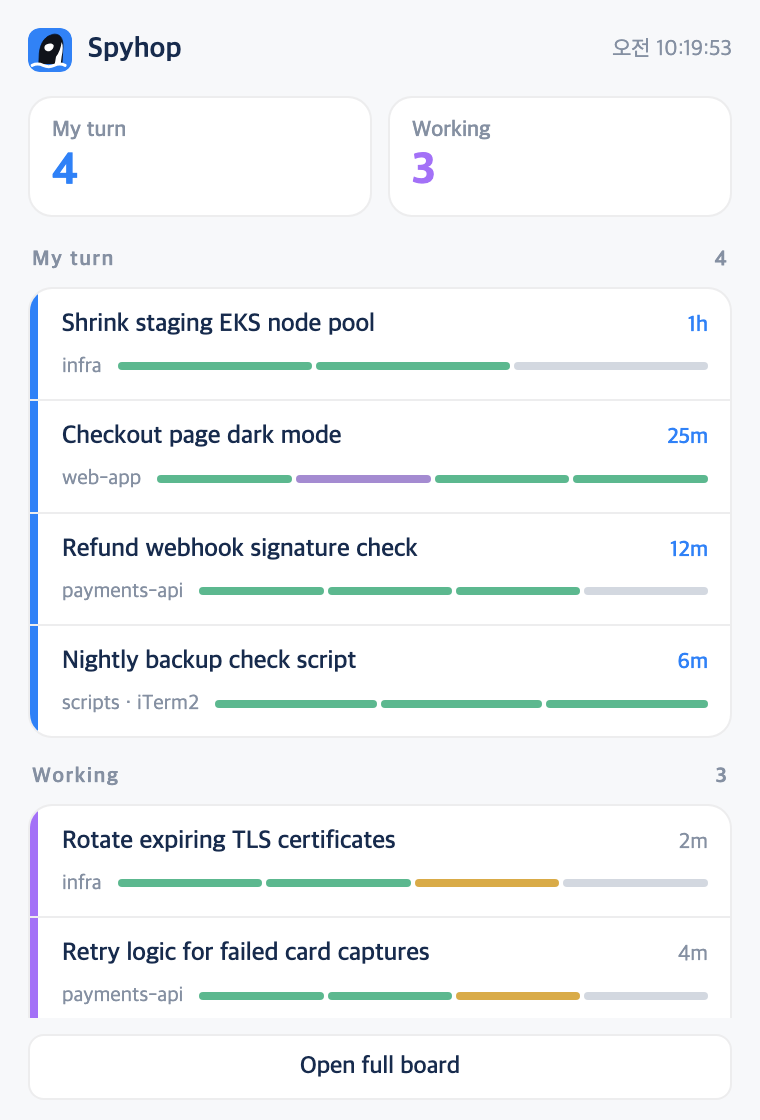
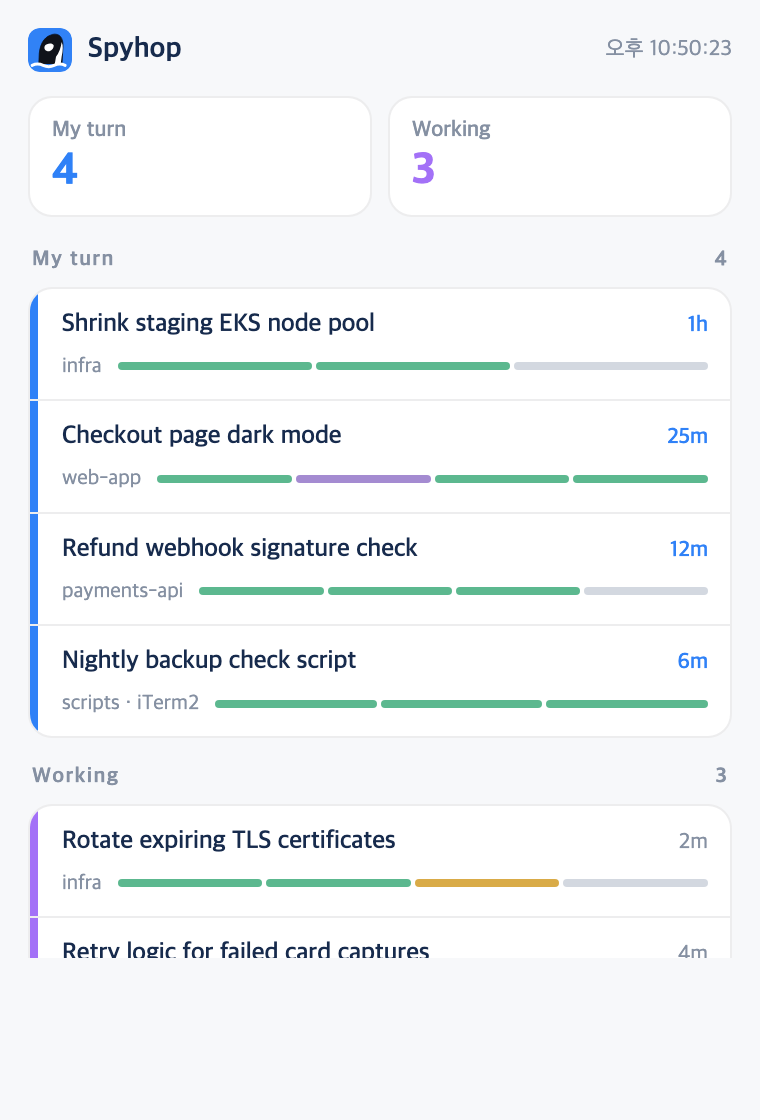
docs: refresh promo screenshots for the 2.x app UI
og.png and move.gif still showed the 1.x browser board (wave header,
"12m waiting"), so every link preview and demo looked unlike the app
people install. Both are regenerated from the current board, and the
pieces that produce them are now scripts instead of one-off exports.

- og_image.py: builds docs/og.png (1200x630) from the latest board
  shot. Sizes the card from the board's own aspect ratio so the last
  row of cards is never cut off.
- compare_groups.py: builds ai-groups-compare.png, folder grouping and
  AI-topic grouping stacked with captions. On its own ai-groups.png
  looks the same as board.png, so the regrouping was invisible.
- frames.py: split into shoot/render/render_gif and guarded with a
  __main__ check. render_gif writes a GIF with a shared palette (no
  ffmpeg needed, and ~3x smaller than per-frame palettes).
- demo_screens.py: find Chromium-family browsers instead of hardcoding
  Chrome, and trim the empty space under the board after shooting so
  taller columns stop getting clipped.

diff --git a/site/frames.py b/site/frames.py
@@ -53,8 +53,10 @@ M.forEach(function(m){
 """
 
 
-def render(name, w, h, scale, n, out):
+def shoot(w, h, scale, n):
+    """장면을 n 장으로 찍어 프레임 png 경로들을 돌려준다."""
     tmp = tempfile.mkdtemp(prefix='spyhop-frames-')
+    paths = []
     for i in range(n):
         page = os.path.join(tmp, 'f.html')
         s = base.replace('</head>', '<style>%s</style></head>' % CSS)
@@ -66,9 +68,16 @@ def render(name, w, h, scale, n, out):
             open(fr, 'w').write('<html><body style="margin:0"><iframe src="%s" style="width:%dpx;height:%dpx;border:0;display:block">'
                                 '</iframe></body></html>' % (url, w, h))
             url = 'file://' + fr
+        out = os.path.join(tmp, 'f%03d.png' % i)
         subprocess.run([D.CHROME, '--headless=new', '--disable-gpu', '--hide-scrollbars', '--window-size=%d,%d' % (w, h),
                         '--force-device-scale-factor=%s' % scale, '--virtual-time-budget=800',
-                        '--screenshot=' + os.path.join(tmp, 'f%03d.png' % i), url], capture_output=True)
+                        '--screenshot=' + out, url], capture_output=True)
+        paths.append(out)
+    return tmp, paths
+
+
+def render(name, w, h, scale, n, out):
+    tmp, paths = shoot(w, h, scale, n)
     subprocess.run(['ffmpeg', '-y', '-loglevel', 'error', '-framerate', '15', '-i', os.path.join(tmp, 'f%03d.png'),
                     '-c:v', 'libx264', '-pix_fmt', 'yuv420p', '-crf', '30', '-preset', 'slow', '-movflags', '+faststart',
                     '-vf', 'scale=trunc(iw/2)*2:trunc(ih/2)*2', os.path.join(HERE, 'assets', out)], check=True)
@@ -76,6 +85,39 @@ def render(name, w, h, scale, n, out):
     print('wrote', out)
 
 
-N = 90  # 6초 · 15fps
-render('desktop', 1280, 560, 1, N, 'move.mp4')
-render('phone', 600, 812, 1.2, N, 'm-move.mp4')
+def render_gif(w, h, scale, n, out, width=960, fps=15, colors=128):
+    """ffmpeg 없이 GIF 로 만든다. 디스코드·이슈 본문처럼 mp4 를 못 붙이는 곳에 쓴다.
+
+    프레임마다 팔레트를 따로 만들면 Pillow 가 프레임 간 차이를 못 줄여 파일이 몇 배로 커진다.
+    전체 프레임을 한 장으로 이어 붙여 공용 팔레트를 만든 뒤 그 팔레트로 양자화한다.
+    """
+    from PIL import Image
+    tmp, paths = shoot(w, h, scale, n)
+    raw = []
+    for p in paths:
+        im = Image.open(p).convert('RGB')
+        if im.width != width:
+            im = im.resize((width, round(im.height * width / im.width)), Image.LANCZOS)
+        raw.append(im)
+    step = max(1, len(raw) // 12)                      # 팔레트 표본: 프레임 12장 정도면 충분
+    sample = raw[::step]
+    strip = Image.new('RGB', (raw[0].width, raw[0].height * len(sample)))
+    for i, im in enumerate(sample):
+        strip.paste(im, (0, i * raw[0].height))
+    pal = strip.quantize(colors=colors, method=Image.MEDIANCUT)
+    frames = [im.quantize(palette=pal, dither=Image.NONE) for im in raw]
+    frames[0].save(out, save_all=True, append_images=frames[1:],
+                   duration=round(1000 / fps), loop=0, optimize=True)
+    shutil.rmtree(tmp, ignore_errors=True)
+    print('wrote %s (%d프레임 · %.1f초 · %dKB)' % (out, len(frames), len(frames) / fps, os.path.getsize(out) // 1024))
+
+
+if __name__ == '__main__':
+    import sys
+    N = 90  # 6초 · 15fps
+    if '--gif' in sys.argv:
+        # 홍보용 GIF: docs/screenshots/move.gif
+        render_gif(1280, 560, 1, 60, os.path.join(HERE, '..', 'docs', 'screenshots', 'move.gif'), width=960, fps=15)
+    else:
+        render('desktop', 1280, 560, 1, N, 'move.mp4')
+        render('phone', 600, 812, 1.2, N, 'm-move.mp4')

diff --git a/macos/board/tools/og_image.py b/macos/board/tools/og_image.py
@@ -1,0 +1,86 @@
+#!/usr/bin/env python3
+"""링크 미리보기(og:image)용 docs/og.png 를 만든다. 보드 그림은 demo_screens 가 찍은 최신 화면을 쓴다.
+
+  python3 tools/demo_screens.py && python3 tools/og_image.py
+
+og.png 는 디스코드·X·슬랙에 링크를 붙일 때 가장 먼저 보이는 한 장이라, 보드 화면이 바뀌면 같이 다시 만든다.
+헤드리스 크롬 레이아웃에 맡기면 보드 아래쪽이 잘려서, 치수를 직접 계산해 Pillow 로 합성한다.
+"""
+import math
+import os
+
+from PIL import Image, ImageDraw, ImageFilter, ImageFont
+
+import demo_screens as D
+
+DOCS = os.path.join(D.ROOT, '..', '..', 'docs')
+BOARD = os.path.join(DOCS, 'screenshots', 'board.png')
+OUT = os.path.join(DOCS, 'og.png')
+
+W, H = 1200, 630
+SS = 2                      # 2배로 그린 뒤 줄여서 글자를 또렷하게
+BG = (246, 247, 249)
+INK = (25, 31, 40)
+SUB = (78, 89, 104)
+TITLE = 'Spyhop'
+TAGLINE = 'Every AI coding session on one board, each with its own progress'
+
+FONT = '/System/Library/Fonts/SFNS.ttf'
+FALLBACK = '/System/Library/Fonts/Helvetica.ttc'
+TOP, GAP, SIDE, BOTTOM, RADIUS = 46, 26, 60, 26, 14
+
+
+def font(size):
+    try:
+        return ImageFont.truetype(FONT, size * SS)
+    except OSError:
+        return ImageFont.truetype(FALLBACK, size * SS)
+
+
+def centered(draw, y, text, f, fill):
+    x0, y0, x1, y1 = draw.textbbox((0, 0), text, font=f)
+    draw.text(((W * SS - (x1 - x0)) / 2 - x0, y), text, font=f, fill=fill)
+    return y1 - y0
+
+
+def rounded(img, radius):
+    mask = Image.new('L', img.size, 0)
+    ImageDraw.Draw(mask).rounded_rectangle((0, 0, img.size[0] - 1, img.size[1] - 1), radius, fill=255)
+    out = Image.new('RGBA', img.size)
+    out.paste(img, (0, 0), mask)
+    return out
+
+
+def main():
+    if not os.path.exists(BOARD):
+        raise SystemExit('먼저 tools/demo_screens.py 로 board.png 를 만드세요: ' + BOARD)
+    board = Image.open(BOARD).convert('RGB')
+    bw, bh = board.size
+
+    title_f, tag_f = font(56), font(21)
+    head = TOP + 62 + 14 + 28 + GAP          # 제목 + 부제 + 사이 여백
+    avail_h = H - head - BOTTOM
+    card_w = W - SIDE * 2
+    if card_w * bh / bw > avail_h:           # 높이가 모자라면 폭을 줄여 보드 전체가 들어가게 한다
+        card_w = int(avail_h * bw / bh)
+    card_h = math.ceil(card_w * bh / bw)
+
+    im = Image.new('RGB', (W * SS, H * SS), BG)
+    d = ImageDraw.Draw(im)
+    centered(d, TOP * SS, TITLE, title_f, INK)
+    centered(d, (TOP + 62 + 14) * SS, TAGLINE, tag_f, SUB)
+
+    shot = rounded(board.resize((card_w * SS, card_h * SS), Image.LANCZOS), RADIUS * SS)
+    cx, cy = (W - card_w) // 2 * SS, head * SS
+    shadow = Image.new('RGBA', im.size, (0, 0, 0, 0))
+    ImageDraw.Draw(shadow).rounded_rectangle(
+        (cx, cy + 6 * SS, cx + card_w * SS, cy + (card_h + 6) * SS), RADIUS * SS, fill=(16, 24, 40, 38))
+    im.paste(Image.alpha_composite(im.convert('RGBA'), shadow.filter(ImageFilter.GaussianBlur(9 * SS))).convert('RGB'), (0, 0))
+    im.paste(shot, (cx, cy), shot)
+
+    im.resize((W, H), Image.LANCZOS).save(OUT, 'PNG', optimize=True)
+    print('wrote %s  (보드 %dx%d -> 카드 %dx%d)' % (OUT, bw, bh, card_w, card_h))
+
+
+if __name__ == '__main__':
+    main()

diff --git a/macos/board/tools/demo_screens.py b/macos/board/tools/demo_screens.py
@@ -17,7 +17,12 @@ import board as B  # noqa: E402
 
 OUTDIR = os.path.join(ROOT, '..', '..', 'docs', 'screenshots')  # 레포 맨 위 docs
 TMP = tempfile.mkdtemp(prefix='spyhop-demo-')
-CHROME = '/Applications/Google Chrome.app/Contents/MacOS/Google Chrome'
+CHROME = os.environ.get('SPYHOP_CHROME') or next(
+    (p for p in ('/Applications/Google Chrome.app/Contents/MacOS/Google Chrome',
+                 '/Applications/Chromium.app/Contents/MacOS/Chromium',
+                 '/Applications/Brave Browser.app/Contents/MacOS/Brave Browser',
+                 '/Applications/Microsoft Edge.app/Contents/MacOS/Microsoft Edge') if os.path.exists(p)),
+    '/Applications/Google Chrome.app/Contents/MacOS/Google Chrome')
 NOW = time.time()
 
 WORKTREES = [('w1', 'payments-api', 3), ('w2', 'web-app', 2), ('w3', 'infra', 1)]
@@ -182,6 +187,25 @@ def shot(html, name, w, h, hash_='#x', css=''):
     print('wrote', out)
 
 
+def trim_bottom(name, pad=40):
+    """내용 아래 남는 빈 공간을 잘라낸다. 칸마다 카드 수가 달라 높이를 미리 못 정하므로 찍고 나서 맞춘다."""
+    from PIL import Image
+    path = os.path.join(OUTDIR, name + '.png')
+    im = Image.open(path).convert('RGB')
+    w, h = im.size
+    bg = im.getpixel((2, h - 2))
+    px = im.load()
+    bottom = h
+    for y in range(h - 1, 0, -1):
+        if any(px[x, y] != bg for x in range(0, w, 7)):
+            bottom = y
+            break
+    new_h = min(h, bottom + pad)
+    if new_h < h:
+        im.crop((0, 0, w, new_h)).save(path, optimize=True)
+        print('trimmed', name, '%dx%d -> %dx%d' % (w, h, w, new_h))
+
+
 FROZEN_ORCAS = ('.orca{animation:none!important;transform:translateY(6%)!important}')
 
 
@@ -198,14 +222,16 @@ def main():
     # 범고래는 멈춘 모습으로 두 마리
     html = html.replace('setTimeout(pop,300+Math.random()*1500);', 'pop();pop();')
     open(board, 'w', encoding='utf-8').write(html)
-    shot(board, 'board', 1280, 560, css=FROZEN_ORCAS)
+    shot(board, 'board', 1280, 700, css=FROZEN_ORCAS)
+    trim_bottom('board')
     shot(board, 'settings', 1280, 980, hash_='#settings', css=FROZEN_ORCAS + '#mcpu,#mmem{visibility:hidden}')
     first = html.split('class="modal ', 1)[1].split('id="', 1)[1].split('"', 1)[0]
     # 상세 창이 열리는 효과 중간에 찍히면 반투명하게 나온다. 효과를 끄고 다 열린 모습으로 찍는다
     shot(board, 'detail', 1280, 640, hash_='#' + first, css=FROZEN_ORCAS + '.modal,.modal *{animation:none!important;transition:none!important}')
     patch('ai')
     B.build()
-    shot(B.OUT, 'ai-groups', 1280, 560)
+    shot(B.OUT, 'ai-groups', 1280, 700)   # 넉넉히 찍고 아래 빈 공간은 잘라낸다 (칸마다 카드 수가 달라 잘리던 것 방지)
+    trim_bottom('ai-groups')
     # 메뉴바 패널: 데모 상태를 바로 그리게 한다
     panel = open(os.path.join(ROOT, 'panel.html'), encoding='utf-8').read().replace(
         '__LOGO__', B.orca_art.tile(uid='pl').replace('<svg ', '<svg width="22" height="22" ', 1))

diff --git a/macos/board/tools/compare_groups.py b/macos/board/tools/compare_groups.py
@@ -1,0 +1,74 @@
+#!/usr/bin/env python3
+"""AI 주제 묶기를 한 장으로 보여 주는 비교 그림(docs/screenshots/ai-groups-compare.png).
+
+  python3 tools/demo_screens.py && python3 tools/compare_groups.py
+
+board.png 와 ai-groups.png 는 따로 보면 거의 똑같이 생겨서 "AI 가 주제별로 다시 묶었다"는 게 드러나지 않는다.
+같은 세션들을 위아래로 붙이고 설명을 달아 차이가 보이게 한다.
+"""
+import os
+
+from PIL import Image, ImageDraw, ImageFont
+
+import demo_screens as D
+
+SHOTS = os.path.join(D.ROOT, '..', '..', 'docs', 'screenshots')
+OUT = os.path.join(SHOTS, 'ai-groups-compare.png')
+
+W, SS = 1200, 2
+BG = (246, 247, 249)
+INK = (25, 31, 40)
+SUB = (78, 89, 104)
+SIDE, TOP, GAP, BOTTOM, RADIUS = 50, 34, 34, 40, 12
+PANELS = [('board.png', 'Group by folder', 'One column per worktree or folder'),
+          ('ai-groups.png', 'Group by AI topic', 'The same sessions, re-grouped by what they are actually about')]
+
+FONT = '/System/Library/Fonts/SFNS.ttf'
+FALLBACK = '/System/Library/Fonts/Helvetica.ttc'
+
+
+def font(size):
+    try:
+        return ImageFont.truetype(FONT, size * SS)
+    except OSError:
+        return ImageFont.truetype(FALLBACK, size * SS)
+
+
+def rounded(img, radius):
+    mask = Image.new('L', img.size, 0)
+    ImageDraw.Draw(mask).rounded_rectangle((0, 0, img.size[0] - 1, img.size[1] - 1), radius, fill=255)
+    out = Image.new('RGBA', img.size)
+    out.paste(img, (0, 0), mask)
+    return out
+
+
+def main():
+    card_w = W - SIDE * 2
+    shots = []
+    for name, _, _ in PANELS:
+        p = os.path.join(SHOTS, name)
+        if not os.path.exists(p):
+            raise SystemExit('먼저 tools/demo_screens.py 를 돌리세요: ' + p)
+        im = Image.open(p).convert('RGB')
+        shots.append(im.resize((card_w * SS, round(card_w * SS * im.height / im.width)), Image.LANCZOS))
+
+    h_f, s_f = font(20), font(14)
+    head = 26 + 8 + 20 + 14                       # 제목 + 설명 + 그림까지의 여백
+    total = TOP + sum(head + s.height // SS + GAP for s in shots) - GAP + BOTTOM
+    im = Image.new('RGB', (W * SS, total * SS), BG)
+    d = ImageDraw.Draw(im)
+
+    y = TOP
+    for (name, title, note), shot in zip(PANELS, shots):
+        d.text((SIDE * SS, y * SS), title, font=h_f, fill=INK)
+        d.text((SIDE * SS, (y + 26) * SS), note, font=s_f, fill=SUB)
+        card = rounded(shot, RADIUS * SS)
+        im.paste(card, (SIDE * SS, (y + head) * SS), card)
+        y += head + shot.height // SS + GAP
+
+    im.resize((W, total), Image.LANCZOS).save(OUT, 'PNG', optimize=True)
+    print('wrote %s %dx%d' % (OUT, W, total))
+
+
+if __name__ == '__main__':
+    main()
